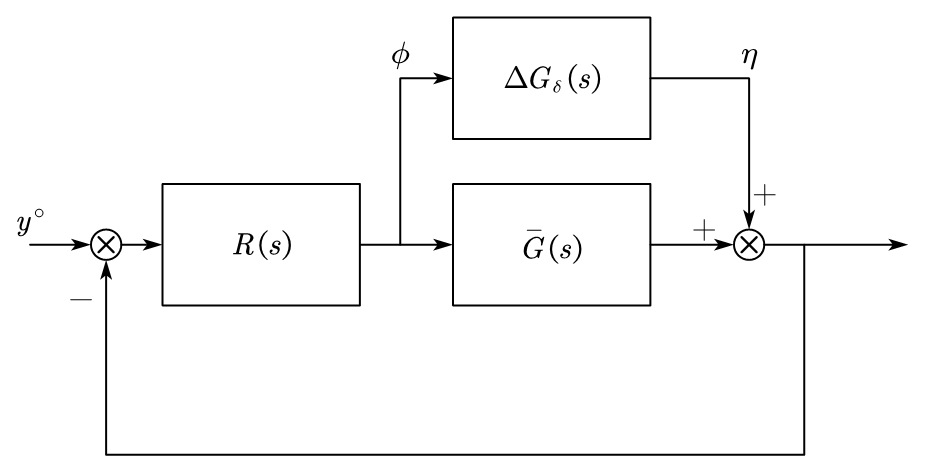
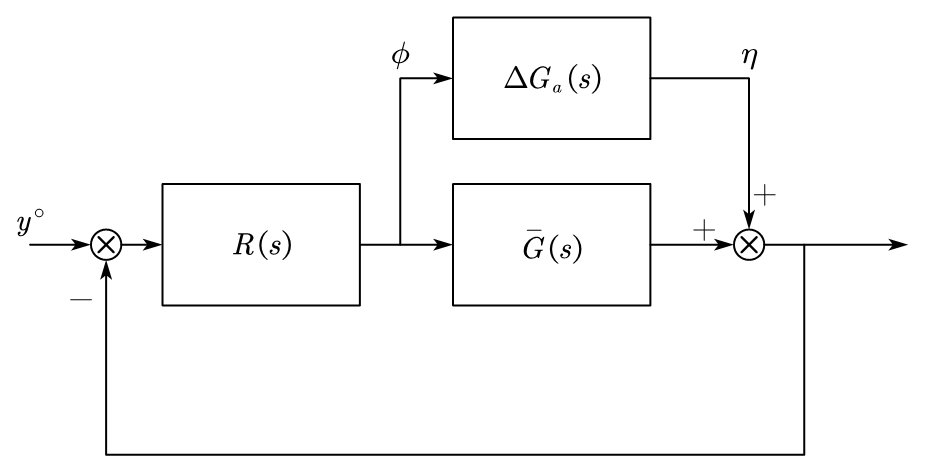
updating adv ctl part sync to the lession progress

diff --git a/docs/advanced-multivariable-control/chapter11.md b/docs/advanced-multivariable-control/chapter11.md
@@ -41,6 +41,8 @@ And we look at the bode diagram of the noise and disturbance distribution,
     ![](pics/chapter11/figure3.png){ width="600" }
 </figure>
 
+## 2. Additive Uncertainty
+
 Given a nominal model without considering any disturbance and noise, we have the following schematics:
 
 <figure markdown="span">
@@ -49,12 +51,10 @@ Given a nominal model without considering any disturbance and noise, we have the
 
 And we designed an $R(s)$ to make this closed loop nominal model A.S.. We want to research the stability of this nominal model at $G(s) \neq \bar G(s)$.
 
-## 2. Additive Uncertainty
-
 We can represent the uncertainty part with nominal part and the error on system:
 
 $$
-G(s) = \bar G(s) + \Delta G_\delta(s)
+G(s) = \bar G(s) + \Delta G_a(s)
 $$
 
 Thus, we can change the system schematics:
@@ -65,7 +65,7 @@ Thus, we can change the system schematics:
 
 Assume that: 
 
-1. $\Delta G_\delta (s)$ is A.S. ($\Rightarrow P_G=P_{\bar G}$)
+1. $\Delta G_a (s)$ is A.S. ($\Rightarrow P_G=P_{\bar G}$)
 2. There have no zero-pole cancellation between $R(s)$ and $G(s)$ in the positive real part.
 
 Now, we can know the TF of $\eta \to \phi$: $-\frac{R(s)}{1+R(s)\bar G(s)}$
@@ -75,6 +75,44 @@ And we can simplify the control schematics:
 <figure markdown="span">
     ![](pics/chapter11/figure6.png){ width="400" }
 </figure>
+
+There have: $\frac{R(s)}{1+R(s)\bar G(s)} = R(s)\bar S(s) = \bar K(s)$, is A.S.
+
+To make the system above stable, we need to meet the condition: $||\Delta G_a(s)\bar K(s)||_\infty < 1$, we can draw the Nyquist diagram to explain this condition is a sufficient condition to A.S.:
+
+<figure markdown="span">
+    ![](pics/chapter11/figure7.png){ width="400" }
+</figure>
+
+For the infinity norm, there have: $||\Delta G_a(s)\bar K(s)||_\infty = \sup_\omega |\Delta G_a(s)\bar K(s)|$. And within the Nyquist stability theorem and the given condition, $\Delta G_a(s)\bar K(s)$ will have no contact to $(-1+j0)$ point, the system is A.S.. But this is not a necessary condition for the stability, because even if $||\Delta G_a(s)\bar K(s)||_\infty \geq 1$, the system could still be stable.
+
+To get the condition above, we can get $|\bar K(j\omega)| < \frac{1}{|\Delta G_a(j\omega)|}, \forall \omega$ $\Rightarrow$ $|\bar K(j\omega)|$ is small when $|\Delta G_a(j\omega)|$ is big (typically in low frequency). And because $|\bar K(j\omega)| = |R(s)\bar||S(s)|$, then $M_S$ is small.
+
+## 3. Multiplcative Uncerntainty
+
+Given the TF,
+
+$$
+G(s) = \bar G(s)(1+\Delta G_m(s))
+$$
+
+And the schematic below:
+
+<figure markdown="span">
+    ![](pics/chapter11/figure8.png){ width="600" }
+</figure>
+
+Assume that $\Delta G_m(s)$ is A.S. $(P_G=P_{\bar G})$.
+
+The TF from $\eta \to \phi$: $-\frac{R(s)\bar G(s)}{1+R(s)\bar G(s)} = -\bar T(s)$. The system schematic can be changed to:
+
+<figure markdown="span">
+    ![](pics/chapter11/figure9.png){ width="400" }
+</figure>
+
+The condition of stability is: $||\bar T \Delta G_m||_\infty < 1$.
+
+And to satisfy the condition, we can let ($|\bar T| < \frac{1}{|\Delta G_m|}, \forall \omega$) $\Rightarrow$ ($M_T < \frac{1}{|\Delta G_m|}, \forall \omega$), $M_T$ should be small.
 
 !!! example
     $$
@@ -88,27 +126,73 @@ And we can simplify the control schematics:
     G(s) = \bar G(s)(1+\Delta G_m(s)) \Rightarrow \Delta G_m(s) = e^{\tau s} - 1
     $$
 
+    We can draw the bode plot:
 
-## 2. Design Specifications in terms of the sensitivity function
+    <figure markdown="span">
+        ![](pics/chapter11/figure10.png){ width="400" }
+    </figure>
 
-Concerning the shape of $S(s)$, 
+    And we continue with additive uncertainty, which gives:
 
-1. it should be small at low frequency, $\leftarrow$ to compensate the disturbances, amall or null error when tracking a constant $y^\circ$. $M_L$ is integrator in $L(s)$.
-2. $\simeq 1$ at high frequency
-3. small pick of resonance
+    $$
+    G(s) = \bar G(s) +\Delta G_a(s) \Rightarrow \Delta G_a(s) = \frac{1}{s}(e^{\tau s} - 1)
+    $$
+
+    Within the $H_\infty$ norm, we have $||\bar K \Delta G_a||_\infty < 1$, we should design a $\bar K$ shown in the bode plot:
+
+    <figure markdown="span">
+        ![](pics/chapter11/figure11.png){ width="400" }
+    </figure>
+
+    
+!!! example
+    $$
+    \left\{\begin{aligned}
+    G(s) &= \frac{\bar K + \Delta K}{s + a} \\
+    \bar G(s) &= \frac{\bar K}{s + a}
+    \end{aligned}\right., a > 0
+    $$
+
+Given the bode plot for $|S|$ and $|T|$,
+
+<figure markdown="span">
+    ![](pics/chapter11/figure12.png){ width="600" }
+</figure>
+
+* $\omega_{BS}$ is the frequency where $|S|_{dB}$ crosses $-3dB$ line from below , and 
+
+* $\omega_{BT}$ is the frequency where $|T|_{dB}$ crosses $-3dB$ line from above.
+
+And the phase margin for this system have: $\varphi_m < 90^\circ$, and $\omega_{BS} < \omega_c < \omega_{BT}$.
+
+## 2. Design Specifications in Terms of the Sensitivity Function
+
+For the design specifications, we need to concern about:
+
+* the shape of $S(s)$:
+
+    1. small at low frequency, $\leftarrow$ for compensating the disturbances, small or null error when tracking a constant $y^\circ$. $\leftarrow$ $M_L$ is large, integrator in $L(s)$.
+    2. $\simeq 1$ at high frequency
+    3. small pick of resonance
 
 * Minimum frequency $\omega_B$,
 * $M_S \leq \bar M_S$, where $\bar M_S$ is the robustness of the stability.
 
-This defines a "desired sensitivity function" $S_{desired}(s)$,
+These specifications defines a "desired sensitivity function" $S_{des}(s)$, and its bode plot:
 
-We introduce the sensitivity shaping function: $W(s) = S^{-1}_{desired}(s)$
+<figure markdown="span">
+    ![](pics/chapter11/figure13.png){ width="300" }
+</figure>
 
-## 3. H-infinity Control Approach
+We introduce the sensitivity shaping function: $W_S(s) = S^{-1}_{des}(s)$.
+
+### 2.1. H-infinity Control Approach
+
+We want to find a regulator $R(s)$ that satisfying:
 
 $$
 \begin{aligned}
-&S(j\omega) < \frac{1}{|W_S(j\omega)|}, \forall \omega \\
+&|S(j\omega)| < \frac{1}{|W_S(j\omega)|}, \forall \omega \\
 \Rightarrow& ||SW_S||_\infty < 1
 \end{aligned}
 $$
@@ -119,34 +203,58 @@ $$
 W_S(s) = \frac{s/M + \omega_B}{s+A\omega_B}
 $$
 
-$A << 1$ is the desired attenuation at low frequency
+We can draw the bode plot:
 
-Design specifications for the complementary function
+<figure markdown="span">
+    ![](pics/chapter11/figure14.png){ width="400" }
+</figure>
+
+* We want $|\frac{1}{A}|$ to be high, $A \ll 1$ $\Rightarrow$ desired attenuation at low frequency
+* $M$ relates to $M_S$
+
+
+## 3. Design Specifications in Terms of the Complementary Sensitivity Function
+
+For the design specifications, we need to concern about:
 
 * shape of $T(s)$
-    * $\simeq 1$ at low frequency
-    * small at high frequency
-    * small pick of resonance
+    1. $\simeq 1$ at low frequency
+    2. small at high frequency
+    3. small pick of resonance
 
 * Max frequency $\omega_{BT}$
 * $M_T$ is small enough
 
-Thus, $T_{desired}^{-1}(s) = W_T(s)$, where $W_T$ is the complementary sensitivity shaping function.
+We can draw the desired bode plot for $T(s)$,
+
+<figure markdown="span">
+    ![](pics/chapter11/figure15.png){ width="300" }
+</figure>
+
+Give the complementary sensitivity shaping function: $W_T(s) = T_{des}^{-1}(s)$.
 
 $$
 \begin{aligned}
 &|T(j\omega)| < \frac{1}{W_T(j\omega)}, \forall \omega \\
-\Rightarrow& ||SW_S||_\infty < 1
+\Rightarrow& ||TW_T||_\infty < 1
 \end{aligned}
 $$
 
-A possible (standard) choice for $W_T$ is :
+A possible (standard) choice for $W_T$ is:
 
 $$
 W(s) = \frac{s + \omega_{BT}/M}{As + \omega_{BT}}
 $$
 
-And $K_{desired}(s)$ is the desired control sensitivity function, the control sensitivity shaping function is $W_K(s)$,
+And the bode diagram:
+
+<figure markdown="span">
+    ![](pics/chapter11/figure16.png){ width="300" }
+</figure>
+
+$A$ is desired attenuation at high frequency.
+
+We can do the same for the control sensitivity function: $W_K(s) = K_{des}^{-1}(s)$.
 
 $$
 \begin{aligned}
@@ -155,29 +263,46 @@ $$
 \end{aligned}
 $$
 
-## 4. H-infinity Control
+## 4. General H-infinity Control Approach
 
-For $H_\infty$ control, our goal is to design an $R(s)$ such that $||W_SS||_\infty < 1$, $||W_TT||_\infty < 1$, $||W_KK||_\infty < 1$
+To design a $H_\infty$ controller, our goal is to design a $R(s)$ such that:
 
-We can go for more general formulation of $H_\infty$ control,
+$$
+\begin{aligned}
+||W_SS||_\infty &< 1 \\
+||W_TT||_\infty &< 1 \\
+||W_KK||_\infty &< 1
+\end{aligned}
+$$
 
-Missing figure 
+To go for more general formulation of $H_\infty$ control, we draw the system schematics:
 
-Where $z = \begin{bmatrix} z_S & z_T & z_K \end{bmatrix}^T$ is performance variables. $W$ is external signals, and we have: $z = \underbrace{\begin{bmatrix} W_SS & W_TT & W_KK \end{bmatrix}^T}_{G_{ZW}} w$
+<figure markdown="span">
+    ![](pics/chapter11/figure17.png){ width="400" }
+</figure>
 
-Now, our goal is to design $R(s)$ to minimize $||G_{ZW}||_\infty$, so that if you obtain that $||G_{ZW}||_\infty < \gamma$, we have $||W_SS||_\infty < \gamma$.
+Where $z = \begin{bmatrix} z_S & z_T & z_K \end{bmatrix}^T$ is the performance variables. $w$ is external signals, and we have: $z = \underbrace{\begin{bmatrix} W_SS & W_TT & W_KK \end{bmatrix}^T}_{G_{ZW}} w$
+
+Now, our goal is to design $R(s)$ to minimize $||G_{ZW}||_\infty$, so that if you obtain that $||G_{ZW}||_\infty < \gamma$, $\Rightarrow$ $||W_SS||_\infty < \gamma$, $||W_KK||_\infty < \gamma$, $||W_TT||_\infty < \gamma$.
+
+### 4.1 H-2 Control
+
+For $H_2$ control, we want to design a $R(s)$ for minimizing:
 
 $$
 ||G_{ZW}||_2^2 = \frac{1}{2\pi} \int_{-\infty}^{\infty} |G_{ZW}(j\omega)|^2 d\omega
 $$
 
+Give the extrogendous signals:
 
 $$
 W = \begin{bmatrix} du \\ dy \\ y^\circ \\ n \end{bmatrix}
 $$
 
-is the vector of exogenous signals, and $u$ is the control input, $v$ is the measured variable.
+and $u$ is the control input, $v$ is the measured variable.
 
-Missing Figure
+<figure markdown="span">
+    ![](pics/chapter11/figure18.png){ width="400" }
+</figure>
 
 Design $R(s)$ such that the $H_2/H_\infty$ norm of the transfer matrix $G_{ZW}$ between $W$ and $Z$ is minimized. 
